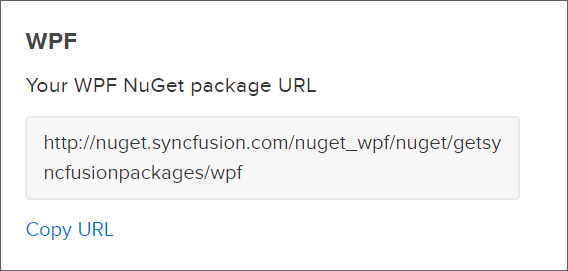
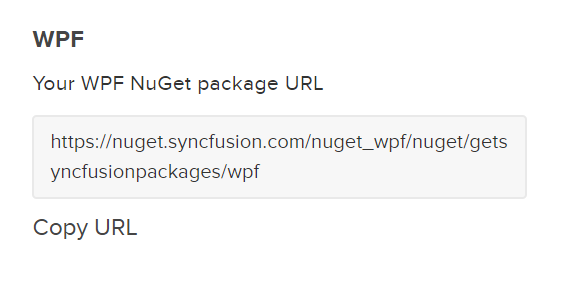
EXT-3461-NuGet-Feed-Changes

diff --git a/wpf/NuGet-Packages.md b/wpf/NuGet-Packages.md
@@ -22,7 +22,7 @@ You should get the private Syncfusion WPF NuGet feed URL to install or upgrade t
 
 2. Click the Copy URL label under WPF platform to copy the Syncfusion WPF platform NuGet feed to clipboard or directly use the following URL: 
 
-    [http://nuget.syncfusion.com/nuget_wpf/nuget/getsyncfusionpackages/wpf](http://nuget.syncfusion.com/nuget_wpf/nuget/getsyncfusionpackages/wpf) 
+    [https://nuget.syncfusion.com/nuget_wpf/nuget/getsyncfusionpackages/wpf](https://nuget.syncfusion.com/nuget_wpf/nuget/getsyncfusionpackages/wpf) 
 
     ![](NuGet_Packages_Images/img1.png)
 
@@ -40,7 +40,7 @@ You should get the private Syncfusion WPF NuGet feed URL to install or upgrade t
 
     **Name:** Name of the package listed in the available package sources.
     **Source:** Syncfusion WPF NuGet Feed URL      
-    [http://nuget.syncfusion.com/nuget_wpf/nuget/getsyncfusionpackages/wpf](http://nuget.syncfusion.com/nuget_wpf/nuget/getsyncfusionpackages/wpf).
+    [https://nuget.syncfusion.com/nuget_wpf/nuget/getsyncfusionpackages/wpf](https://nuget.syncfusion.com/nuget_wpf/nuget/getsyncfusionpackages/wpf).
 
 5.	Click the **Update** button to add the name and source details to package sources. 
 
@@ -87,7 +87,7 @@ To reference the Syncfusion WPF component using the Package Manager Console as N
     Install-Package Syncfusion.Chart.WPF46
 
     #install specified package in default project with specified Package Source
-    Install-Package Syncfusion.Chart.WPF46-Source “http://nuget.syncfusion.com/nuget_wpf/nuget/getsyncfusionpackages/wpf”
+    Install-Package Syncfusion.Chart.WPF46-Source “https://nuget.syncfusion.com/nuget_wpf/nuget/getsyncfusionpackages/wpf”
 
     #install specified package in specified project 
     Install-Package Syncfusion.Chart.WPF46-ProjectName SyncfusionDemoApplication
@@ -117,7 +117,7 @@ The NuGet Command Line Interface (CLI), nuget.exe, provides the full extent of N
     **For example:**
 
     ~~~
-    nuget.exe Sources Add –Name “Syncfusion Source” –Source “http://nuget.syncfusion.com/nuget_wpf/nuget/getsyncfusionpackages/wpf”
+    nuget.exe Sources Add –Name “Syncfusion Source” –Source “https://nuget.syncfusion.com/nuget_wpf/nuget/getsyncfusionpackages/wpf”
     ~~~
 
 ### NuGet installation
@@ -141,7 +141,7 @@ nuget.exe install “Syncfusion.Chart.WPF46"
 nuget.exe install “C:\Users\SyncfusionApplication\package.config”
 
 #install specific Syncfusion NuGet package with specific Syncfusion Package Source
-nuget.exe install “Syncfusion.Chart.WPF46”  –Source “http://nuget.syncfusion.com/nuget_wpf/nuget/getsyncfusionpackages/wpf”
+nuget.exe install “Syncfusion.Chart.WPF46”  –Source “https://nuget.syncfusion.com/nuget_wpf/nuget/getsyncfusionpackages/wpf”
 ~~~
 
 ## Upgrading NuGet packages
@@ -184,7 +184,7 @@ To update the installed Syncfusion WPF NuGet packages using the Package Manager 
     Update-Package Syncfusion.Chart.WPF46
 
     #Update specified package in default project with specified Package Source
-    Update-Package Syncfusion.Chart.WPF46 –Source “http://nuget.syncfusion.com/nuget_wpf/nuget/getsyncfusionpackages/wpf”
+    Update-Package Syncfusion.Chart.WPF46 –Source “https://nuget.syncfusion.com/nuget_wpf/nuget/getsyncfusionpackages/wpf”
 
     #Update specified package in specified project 
     Update-Package Syncfusion.Chart.WPF46 -ProjectName SyncfusionDemoApplication
@@ -221,7 +221,7 @@ Using the NuGet CLI, all the NuGet packages in the project can be updated to the
     nuget update “C:\Users\SyncfusionApplication\package.config”
 
     #Update all NuGet packages from specified Packages Source
-    nuget update -Source “http://nuget.syncfusion.com/nuget_wpf/nuget/getsyncfusionpackages/wpf”
+    nuget update -Source “https://nuget.syncfusion.com/nuget_wpf/nuget/getsyncfusionpackages/wpf”
     ~~~
 
    
